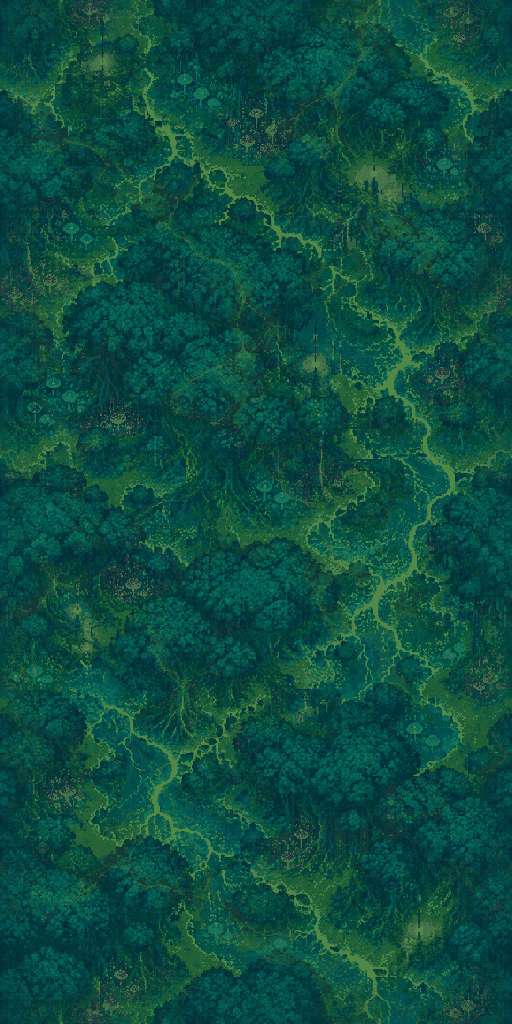
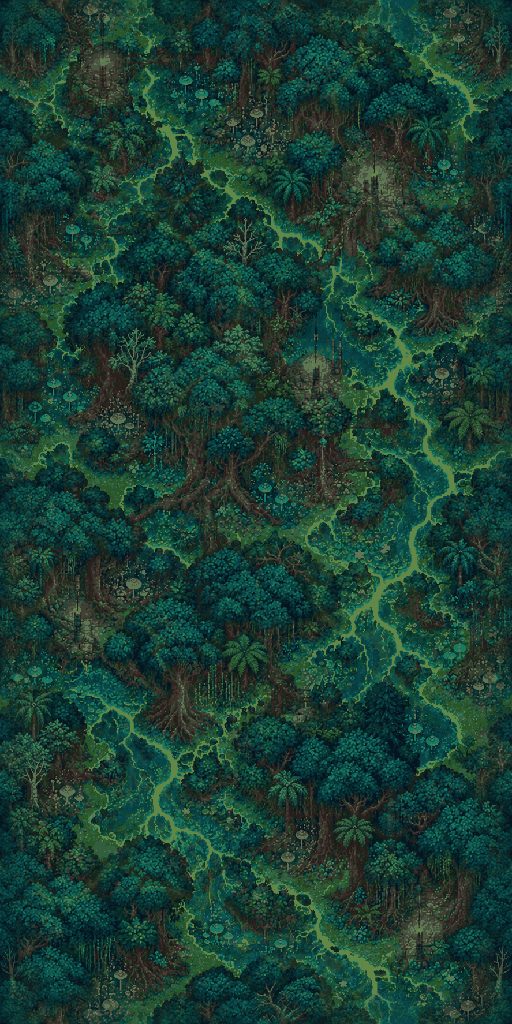
Verdant v4 night forest: Codex repaint with tree diversity, mixed-colour flowers, moonlit sakura, muddy brown roots

diff --git a/Pause/Assets/Art/Worlds/Verdant/backdrop_v3/src~/build_night_v4.py b/Pause/Assets/Art/Worlds/Verdant/backdrop_v3/src~/build_night_v4.py
@@ -1,0 +1,62 @@
+"""Rebuild Verdant v4 (night forest) sky/far/mid from the Codex repaints in night_v4/ (flow.png kept).
+Tree / flower diversity, sakura in the far source; little haze (sky only); night targets and the .53 cap unchanged.
+Run: /usr/local/bin/python3 build_night_v4.py"""
+from pathlib import Path
+import sys
+import numpy as np
+from PIL import Image
+sys.path.insert(0, str(Path(__file__).resolve().parent))
+import build as B
+W, H = B.W, B.H
+HERE = Path(__file__).resolve().parent
+OUT = Path(__file__).resolve().parents[5] / "Art/Backgrounds/Resources/Worlds/Verdant/Backdrop3/v4"
+TARGET = {"sky": .335, "far": .365, "mid": .395}
+SAT = {"sky": .95, "far": 1.1, "mid": .95}
+CONTRAST = {"sky": .30, "far": .55, "mid": .70}
+HAZE = {"sky": .30, "far": .10, "mid": 0.0}
+FOG = (.08, .22, .24)
+
+
+def src(n):
+    return np.asarray(Image.open(HERE / "night_v4" / n).convert("RGB").resize((W, H), Image.Resampling.NEAREST)).copy()
+
+
+def ground(role):
+    a, b = src("night_a2.png"), src("night_b3.png")
+    w = {"sky": .32, "far": 1.0, "mid": .16}[role]
+    f = (a.astype(np.float32) * (1 - w) + b.astype(np.float32) * w) / 255
+    g = f.mean(axis=2, keepdims=True)
+    f = g + (f - g) * SAT[role]
+    f = f * (1 - HAZE[role]) + np.array(FOG, np.float32) * HAZE[role]
+    rgb = np.uint8(np.clip(np.rint(f * 255), 0, 255))
+    t, cap = TARGET[role], .53
+    rgb = B.palette_and_value(rgb, t, CONTRAST[role], 0, cap, colors=42 if role == "sky" else (88 if role == "far" else 56))
+    rgba = B.wrap_blend(np.dstack((rgb, np.full((H, W), 255, np.uint8))))
+    rgb = B.palette_and_value(rgba[:, :, :3], t, 1.0, 0, cap, colors=88 if role == "far" else 56)
+    rgba = np.dstack((rgb, np.full((H, W), 255, np.uint8)))
+    if role == "far":
+        # flowers / sakura: palette indexing flattens small bright colour (pink, red, blue, violet) into
+        # the teal-olive palette, so carry the painted flower pixels over (dimmed, a little desaturated:
+        # soft jewel colours, never a saturated dot), away from the 70 px wrap band so the seams stay identical.
+        # Hues kept: red / pink / violet / blue (orange and gold are left out: star dust and atoms are orange / gold).
+        sb = src("night_b3.png").astype(np.float32) / 255
+        mx, mn = sb.max(axis=2), sb.min(axis=2)
+        sat = (mx - mn) / np.maximum(mx, 1e-4)
+        r, g, b = sb[..., 0], sb[..., 1], sb[..., 2]
+        warm = (r > g + .18) & (r >= b)                      # reds / crimsons / pink-reds
+        cool = (b > g + .10) & (b > r - .05)                 # blues / violets / lavender pinks
+        pale = (r > g + .06) & (b > g + .03)                 # sakura-like pale pink
+        flower = (warm | cool | pale) & (mx > .42) & (sat > .18) & ~((r > g + .10) & (g > b + .06) & (mx < .6))  # not bark orange-brown
+        flower[:70] = False; flower[-70:] = False; flower[:, :70] = False; flower[:, -70:] = False
+        gr = sb.mean(axis=2, keepdims=True)
+        soft = np.clip((gr + (sb - gr) * .85) * .82, 0, 1) * 255
+        rgba[..., :3] = np.where(flower[..., None], np.uint8(soft), rgba[..., :3])
+    rgba[:, -1] = rgba[:, 0]; rgba[-1] = rgba[0]
+    return Image.fromarray(rgba, "RGBA")
+
+
+if __name__ == "__main__":
+    for role in ("sky", "far", "mid"):
+        im = ground(role)
+        im.save(OUT / f"{role}.png", optimize=True)
+        print(role, im.size, B.stats(im))

diff --git a/Pause/Assets/Scripts/Worlds/Backdrop/DockGradeTable.cs b/Pause/Assets/Scripts/Worlds/Backdrop/DockGradeTable.cs
@@ -499,11 +499,11 @@ public static partial class DockGrade
         1.000f, 1.000f, 1.000f,
         1.000f, 1.000f, 1.000f,
         1.000f, 1.000f, 1.000f,
-        0.527f, 0.823f, 0.799f,
-        0.517f, 0.789f, 0.763f,
-        0.218f, 0.585f, 0.526f,
-        0.806f, 1.000f, 1.000f,
-        0.675f, 1.000f, 1.000f,
+        1.000f, 0.669f, 0.628f,
+        1.000f, 0.642f, 0.600f,
+        0.448f, 0.476f, 0.414f,
+        1.000f, 0.813f, 0.787f,
+        1.000f, 0.813f, 0.787f,
         0.744f, 0.937f, 0.883f,
         0.802f, 0.925f, 0.887f,
         0.805f, 0.896f, 0.881f,

diff --git a/Pause/Assets/Art/Worlds/Verdant/backdrop_v3/src~/night_v4/prompts/night_b.md b/Pause/Assets/Art/Worlds/Verdant/backdrop_v3/src~/night_v4/prompts/night_b.md
@@ -1,0 +1,10 @@
+Use your built-in image generation tool to REDRAW the attached reference image (v4_terrain_b.png: a top-down aerial view of a bioluminescent NIGHT jungle forest: dark teal canopy, thin glowing lime rivers, tiny cyan fungus, sparse copper lamps; 887x1774 portrait) as the same place with much more DIVERSITY. KEEP the composition, the river courses and clearings in the same positions, the night mood, the colours and the portrait top-down framing with terrain filling every edge. The user likes its colours; the trees are all too much the same, so vary them.
+
+TREE DIVERSITY: different species and silhouettes seen from above: tall conifers / pines with star-shaped crowns, broad round canopy trees, twisted gnarled trees with visible branches, palms and giant ferns, bamboo groves, hanging vines, a few dead snags, and occasional PALE BIRCH-LIKE trees with moonlit white-grey bark. Different heights, crown widths and trunk thicknesses. Leaf tones inside the night palette: deep teal, blue-green, dark jade, a few violet and warm-amber accent trees. Moonlight rim-lights on crowns and branches.
+WOOD: roots, trunks and branches that show must read as clear WOOD in natural brown bark tones (umber, chestnut, grey-brown, pale weathered tan) with bark texture, not green-tinted.
+STONE: any man-made structure (copper lamp towers, ruins) is natural weathered stone/brass colour with masonry detail, rim-lit, not green-tinted.
+DIVERSITY OF GROUND LIFE: flower meadows in clearings and on river banks (violet, blue, white, soft red, small and muted), GLOWING NIGHT-BLOOMS, luminous mushrooms (cyan and soft green), reeds, lily pads with glowing water flowers, fallen leaves, moss.
+SAKURA: add a few moonlit CHERRY-BLOSSOM (sakura) trees with dark branches and pale desaturated pink-white blossoms with a soft glow, plus a few drifting petals; small clusters, only a few trees in the whole image, never on stone or on the water, blossom colour pale and soft (lower saturation than any warning colour).
+
+HARD RULES: hi-res pixel art with crisp square pixels, no outlines or borders, no text, no blur, no horizon, no ships, no space. It stays a NIGHT image: overall brightness low-moderate, no big bright flat areas, glows are small. Flowers and mushrooms are small and muted: they must NOT look like orange stars, atoms or pickups (avoid saturated orange and yellow-gold dots). No pink anywhere except the pale sakura blossoms described. LAYER This becomes the far layer: this is where the richest variety, flower meadows, glowing night-blooms, mushrooms, sakura and the sharpest detail live.
+Output: copy the generated image to ./night_b.png in your current working directory and reply with one line.

diff --git a/Pause/Assets/Art/Worlds/Verdant/backdrop_v3/src~/night_v4/prompts/night_a.md b/Pause/Assets/Art/Worlds/Verdant/backdrop_v3/src~/night_v4/prompts/night_a.md
@@ -1,0 +1,10 @@
+Use your built-in image generation tool to REDRAW the attached reference image (v4_terrain_a.png: a top-down aerial view of a bioluminescent NIGHT jungle forest: dark teal canopy, thin glowing lime rivers, tiny cyan fungus, sparse copper lamps; 887x1774 portrait) as the same place with much more DIVERSITY. KEEP the composition, the river courses and clearings in the same positions, the night mood, the colours and the portrait top-down framing with terrain filling every edge. The user likes its colours; the trees are all too much the same, so vary them.
+
+TREE DIVERSITY: different species and silhouettes seen from above: tall conifers / pines with star-shaped crowns, broad round canopy trees, twisted gnarled trees with visible branches, palms and giant ferns, bamboo groves, hanging vines, a few dead snags, and occasional PALE BIRCH-LIKE trees with moonlit white-grey bark. Different heights, crown widths and trunk thicknesses. Leaf tones inside the night palette: deep teal, blue-green, dark jade, a few violet and warm-amber accent trees. Moonlight rim-lights on crowns and branches.
+WOOD: roots, trunks and branches that show must read as clear WOOD in natural brown bark tones (umber, chestnut, grey-brown, pale weathered tan) with bark texture, not green-tinted.
+STONE: any man-made structure (copper lamp towers, ruins) is natural weathered stone/brass colour with masonry detail, rim-lit, not green-tinted.
+DIVERSITY OF GROUND LIFE: flower meadows in clearings and on river banks (violet, blue, white, soft red, small and muted), GLOWING NIGHT-BLOOMS, luminous mushrooms (cyan and soft green), reeds, lily pads with glowing water flowers, fallen leaves, moss.
+No sakura in this image.
+
+HARD RULES: hi-res pixel art with crisp square pixels, no outlines or borders, no text, no blur, no horizon, no ships, no space. It stays a NIGHT image: overall brightness low-moderate, no big bright flat areas, glows are small. Flowers and mushrooms are small and muted: they must NOT look like orange stars, atoms or pickups (avoid saturated orange and yellow-gold dots). No pink anywhere except the pale sakura blossoms described. LAYER This becomes the play layer behind a shooter with brown and black bullets and orange enemies: keep the wood DARK and LOW-SATURATION (brown projectiles must stay visible), keep the flowers and glows tiny and rare here and the variety mostly in tree shape; the most vivid detail belongs in the other layer.
+Output: copy the generated image to ./night_a.png in your current working directory and reply with one line.

diff --git a/Pause/Assets/Art/Worlds/Verdant/backdrop_v3/src~/night_v4/prompts/night_b3.md b/Pause/Assets/Art/Worlds/Verdant/backdrop_v3/src~/night_v4/prompts/night_b3.md
@@ -1,0 +1,9 @@
+Use your built-in image generation tool to REDRAW the attached reference image (night_b2.png: a top-down aerial view of a bioluminescent NIGHT jungle forest with varied trees, flowers, mushrooms and a few sakura trees; 887x1774 portrait) with MUDDIER BROWN ROOTS (keeping the many differently coloured flowers). KEEP everything else: composition, river courses, clearings, tree species and positions, ruins/lamps, the night mood, the portrait top-down framing with terrain filling every edge.
+
+FLOWERS: in the clearings, river banks and meadows, add many more flowers in a WIDE PALETTE and in MIXED clusters (never one colour per patch): deep and bright BLUES (bluebells, glowing blue moon-lilies), PINKS from soft to hot (including the sakura), REDS and crimsons, violets and purples, whites and pale yellows, a few oranges, plus cyan/teal luminous mushrooms and glowing night-blooms. They are moonlit and softly self-glowing, jewel-like against the dark foliage. Make them small to medium soft-edged blobs with visible petals (clusters of 3 to 12 petals, poppies, lilies, bell-flowers, bluebell drifts), NOT single bright dots. Avoid isolated saturated orange or gold specks and star-like points. Put a flower drift in most clearings and along the glowing rivers, and a few flowering shrubs, but keep the trees and canopy dominant.
+
+HARD RULES: hi-res pixel art with crisp square pixels, no outlines or borders, no text, no blur, no horizon, no ships, no space. It stays a NIGHT image: overall brightness low-moderate, no large bright flat areas, glows are small. Flowers never grow on stone or in open water. This becomes the FAR layer of a shooter backdrop, so this is where the colour lives.
+Output: copy the generated image to ./night_b3.png in your current working directory and reply with one line.
+
+ROOTS (new direction): wherever the image shows tree roots, root tangles, river-bank roots, big gnarled root masses, trunks and vines at the base of trunks, redraw them as earthy MUD-BROWN, wet soil-caked wood: warm umber and chestnut with darker wet-mud shadows, clay and silt browns, a damp sheen, mud splatter and silt lines where roots meet water, pale dried-mud highlights, visible grain and knots, moss only in small patches. Clearly brown, muddy and earthy: not green-tinted, not grey.
+KEEP all flowers, colours, trees and composition exactly as in the reference; only the roots, root tangles and trunk bases change. The most saturated, muddiest browns belong in this far layer.

diff --git a/Pause/Assets/Art/Worlds/Verdant/backdrop_v3/src~/night_v4/prompts/common.md b/Pause/Assets/Art/Worlds/Verdant/backdrop_v3/src~/night_v4/prompts/common.md
@@ -1,0 +1,10 @@
+Use your built-in image generation tool to REDRAW the attached reference image (REF: a top-down aerial view of a bioluminescent NIGHT jungle forest: dark teal canopy, thin glowing lime rivers, tiny cyan fungus, sparse copper lamps; 887x1774 portrait) as the same place with much more DIVERSITY. KEEP the composition, the river courses and clearings in the same positions, the night mood, the colours and the portrait top-down framing with terrain filling every edge. The user likes its colours; the trees are all too much the same, so vary them.
+
+TREE DIVERSITY: different species and silhouettes seen from above: tall conifers / pines with star-shaped crowns, broad round canopy trees, twisted gnarled trees with visible branches, palms and giant ferns, bamboo groves, hanging vines, a few dead snags, and occasional PALE BIRCH-LIKE trees with moonlit white-grey bark. Different heights, crown widths and trunk thicknesses. Leaf tones inside the night palette: deep teal, blue-green, dark jade, a few violet and warm-amber accent trees. Moonlight rim-lights on crowns and branches.
+WOOD: roots, trunks and branches that show must read as clear WOOD in natural brown bark tones (umber, chestnut, grey-brown, pale weathered tan) with bark texture, not green-tinted.
+STONE: any man-made structure (copper lamp towers, ruins) is natural weathered stone/brass colour with masonry detail, rim-lit, not green-tinted.
+DIVERSITY OF GROUND LIFE: flower meadows in clearings and on river banks (violet, blue, white, soft red, small and muted), GLOWING NIGHT-BLOOMS, luminous mushrooms (cyan and soft green), reeds, lily pads with glowing water flowers, fallen leaves, moss.
+SAKURA_LINE
+
+HARD RULES: hi-res pixel art with crisp square pixels, no outlines or borders, no text, no blur, no horizon, no ships, no space. It stays a NIGHT image: overall brightness low-moderate, no big bright flat areas, glows are small. Flowers and mushrooms are small and muted: they must NOT look like orange stars, atoms or pickups (avoid saturated orange and yellow-gold dots). No pink anywhere except the pale sakura blossoms described. LAYER ROLE_LINE
+Output: copy the generated image to ./OUTNAME in your current working directory and reply with one line.

diff --git a/Pause/Assets/Art/Worlds/Verdant/backdrop_v3/src~/night_v4/prompts/night_b2.md b/Pause/Assets/Art/Worlds/Verdant/backdrop_v3/src~/night_v4/prompts/night_b2.md
@@ -1,0 +1,6 @@
+Use your built-in image generation tool to REDRAW the attached reference image (night_b_v1_ref.png: a top-down aerial view of a bioluminescent NIGHT jungle forest with varied trees, flowers, mushrooms and a few sakura trees; 887x1774 portrait) with MORE DIFFERENT COLOURED FLOWERS. KEEP everything else: composition, river courses, clearings, tree species and positions, ruins/lamps, the night mood, the portrait top-down framing with terrain filling every edge.
+
+FLOWERS: in the clearings, river banks and meadows, add many more flowers in a WIDE PALETTE and in MIXED clusters (never one colour per patch): deep and bright BLUES (bluebells, glowing blue moon-lilies), PINKS from soft to hot (including the sakura), REDS and crimsons, violets and purples, whites and pale yellows, a few oranges, plus cyan/teal luminous mushrooms and glowing night-blooms. They are moonlit and softly self-glowing, jewel-like against the dark foliage. Make them small to medium soft-edged blobs with visible petals (clusters of 3 to 12 petals, poppies, lilies, bell-flowers, bluebell drifts), NOT single bright dots. Avoid isolated saturated orange or gold specks and star-like points. Put a flower drift in most clearings and along the glowing rivers, and a few flowering shrubs, but keep the trees and canopy dominant.
+
+HARD RULES: hi-res pixel art with crisp square pixels, no outlines or borders, no text, no blur, no horizon, no ships, no space. It stays a NIGHT image: overall brightness low-moderate, no large bright flat areas, glows are small. Flowers never grow on stone or in open water. This becomes the FAR layer of a shooter backdrop, so this is where the colour lives.
+Output: copy the generated image to ./night_b2.png in your current working directory and reply with one line.

diff --git a/Pause/Assets/Art/Worlds/Verdant/backdrop_v3/src~/night_v4/prompts/night_a2.md b/Pause/Assets/Art/Worlds/Verdant/backdrop_v3/src~/night_v4/prompts/night_a2.md
@@ -1,0 +1,5 @@
+Use your built-in image generation tool to REDRAW the attached reference image (night_a.png: a top-down aerial view of a bioluminescent NIGHT jungle forest, 887x1774 portrait) with MUDDIER BROWN ROOTS. KEEP the composition, trees, colours and the night mood exactly; only the roots change.
+
+ROOTS (new direction): wherever the image shows tree roots, root tangles, river-bank roots, big gnarled root masses, trunks and vines at the base of trunks, redraw them as earthy MUD-BROWN, wet soil-caked wood: warm umber and chestnut with darker wet-mud shadows, clay and silt browns, a damp sheen, mud splatter and silt lines where roots meet water, pale dried-mud highlights, visible grain and knots, moss only in small patches. Clearly brown, muddy and earthy: not green-tinted, not grey.
+This becomes the PLAY layer behind a shooter with brown bullets: keep the mud browns DARK and LOW-SATURATION here (darker than the far layer), so brown projectiles stay visible.
+HARD RULES: hi-res pixel art, crisp square pixels, no outlines, no text, no blur, no pink additions. Output: copy the generated image to ./night_a2.png in your current working directory and reply with one line.

diff --git a/Pause/Assets/Art/Worlds/Verdant/backdrop_v3/src~/night_v4/prompts/mud.md b/Pause/Assets/Art/Worlds/Verdant/backdrop_v3/src~/night_v4/prompts/mud.md
@@ -1,0 +1,1 @@
+ROOTS (new direction): wherever the image shows tree roots, root tangles, river-bank roots, big gnarled root masses, trunks and vines at the base of trunks, redraw them as earthy MUD-BROWN, wet soil-caked wood: warm umber and chestnut with darker wet-mud shadows, clay and silt browns, a damp sheen, mud splatter and silt lines where roots meet water, pale dried-mud highlights, visible grain and knots, moss only in small patches. Clearly brown, muddy and earthy: not green-tinted, not grey.
